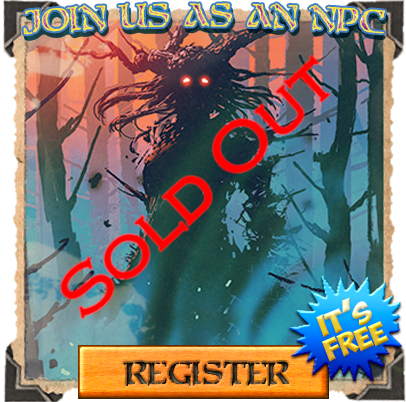
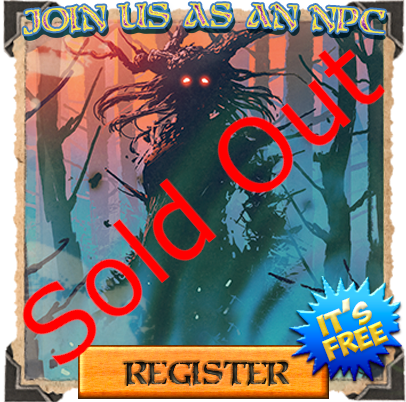
Pay for Events

Changed region(s): [[0.0591, 0.4179, 0.532, 0.9254], [0.5025, 0.1194, 0.9458, 0.4776]]

diff --git a/app/controllers/event_controller.rb b/app/controllers/event_controller.rb
@@ -20,6 +20,16 @@ class EventController < ApplicationController
     @event = Event.find(params[:event_id])
   end
 
+  def playersignup
+    @event = Event.find(params[:event_id])
+    if request.post?
+      @eventattendance = Eventattendance.create(event_id: @event.id, user_id: current_user.id, registrationtype: 'Cast')
+      if @eventattendance.save!
+        helpers.add_event_xp(@event, @eventattendance)
+      end
+    end
+  end
+
   def castsignup
     @event = Event.find(params[:event_id])
     if request.post?
@@ -29,6 +39,67 @@ class EventController < ApplicationController
       end
     end
   end
+
+  def orderevent
+    @event = Event.find(params[:event_id])
+    price = @event.earlybirdcost
+    request = PayPalCheckoutSdk::Orders::OrdersCreateRequest::new
+    request.request_body({
+      :intent => 'CAPTURE',
+      :purchase_units => [
+        {
+          :amount => {
+            :currency_code => 'USD',
+            :value => price,
+            :breakdown => {
+              :item_total => {
+                :value => price, 
+                :currency_code => 'USD'}
+            }
+          },
+          :items => [{
+            :name => 'Purchased event ' + @event.name,
+            :quantity => '1',
+            :unit_amount => {
+                :currency_code => 'USD',
+                :value => price
+            }
+          }]
+        }
+      ]
+    })
+    begin
+      response = @client.execute request
+      order = Order.new
+      order.user_id = current_user.id
+      order.amount = price.to_i
+      order.description = 'Purchased event ' + @event.name
+      order.token = response.result.id
+      if order.save
+        return render :json => {:token => response.result.id}, :status => :ok
+      end
+    rescue PayPalHttp::HttpError => ioe
+      # HANDLE THE ERROR
+    end
+  end
+
+  def processeventorder
+    @event = Event.find_by(id: params[:event_id])
+    request = PayPalCheckoutSdk::Orders::OrdersCaptureRequest::new params[:order_id]
+    begin
+      response = @client.execute request
+      if response.result.status == 'COMPLETED'
+
+        add_user_to_event(current_user,@event)
+
+        return render :json => {:status => response.result.status}, :status => :ok
+      end
+    rescue PayPalHttp::HttpError => ioe
+      # HANDLE THE ERROR
+    end
+  end
+
+
 
   def ordermealplan
     @event = Event.find(params[:event_id])
@@ -48,8 +119,7 @@ class EventController < ApplicationController
             }
           },
           :items => [{
-            :name => 'Meal Plan',
-            :description => current_user.email + ' purchased mealplan for ' + @event.name,
+            :name => params[:meal_type] + ' Meal Plan for ' + @event.name,
             :quantity => '1',
             :unit_amount => {
                 :currency_code => 'USD',

diff --git a/app/helpers/events_helper.rb b/app/helpers/events_helper.rb
@@ -32,7 +32,12 @@ module EventsHelper
   end
 
   def getEventPlayLink(event)
-    return "Sign up by visiting the old website: <a href='https://www.mythlarp.com/register-for-events/'>https://www.mythlarp.com/register-for-events/</a>".html_safe
+    attendancecount = Eventattendance.all.where('event_id = ? and Registrationtype = ?', event.id, 'Player').count
+    if (attendancecount >= event.playercount)
+      return image_tag("pages/events/register_to_play.png")
+    else
+      return link_to(image_tag("pages/events/register_to_play.png"), event_playersignup_path(event.id))
+    end
   end
 
   def getEventCastLink(event)
@@ -50,6 +55,26 @@ module EventsHelper
       return link_to 'Sign Up To Cast', event_castsignup_path, data: { confirm: 'Thank you for signing up to cast. Please confirm?'}, method: :post, id: 'signuplink'
     else
       return ("<b>You are already registered to play as " + @eventattendance.registrationtype + '</b>').html_safe
+    end
+  end
+
+  def GetPlayerSignupLink(event)
+    @eventattendance = Eventattendance.find_by(user_id: current_user, event_id: event.id)
+    if @eventattendance.nil?
+      return (render partial: 'event/partials/buyevent')
+    else
+      return ("<b>You are already registered to play as " + @eventattendance.registrationtype + '</b>').html_safe
+    end
+  end
+
+  def add_user_to_event(user, event)
+    @eventattendance = Eventattendance.new
+    @eventattendance.event_id = event.id
+    @eventattendance.user_id = user.id
+    @eventattendance.registrationtype = 'Player'
+
+    if @eventattendance.save!
+      add_event_xp(event, @eventattendance)
     end
   end
 end

diff --git a/app/controllers/admin/eventattendances_controller.rb b/app/controllers/admin/eventattendances_controller.rb
@@ -6,7 +6,7 @@ module Admin
     def create
       @eventattendance = Eventattendance.new(resource_params)
       @event = Event.find_by(id: @eventattendance.event_id)
-
+      
       if @eventattendance.save!
         helpers.add_event_xp(@event, @eventattendance)
       end

diff --git a/config/routes.rb b/config/routes.rb
@@ -77,6 +77,9 @@ Rails.application.routes.draw do
     get :updatecabin
     patch :updatecabin
     get :mealplan
+    get :playersignup
+    post :orderevent
+    post :processeventorder
     get :castsignup
     post :castsignup
     post :ordermealplan
